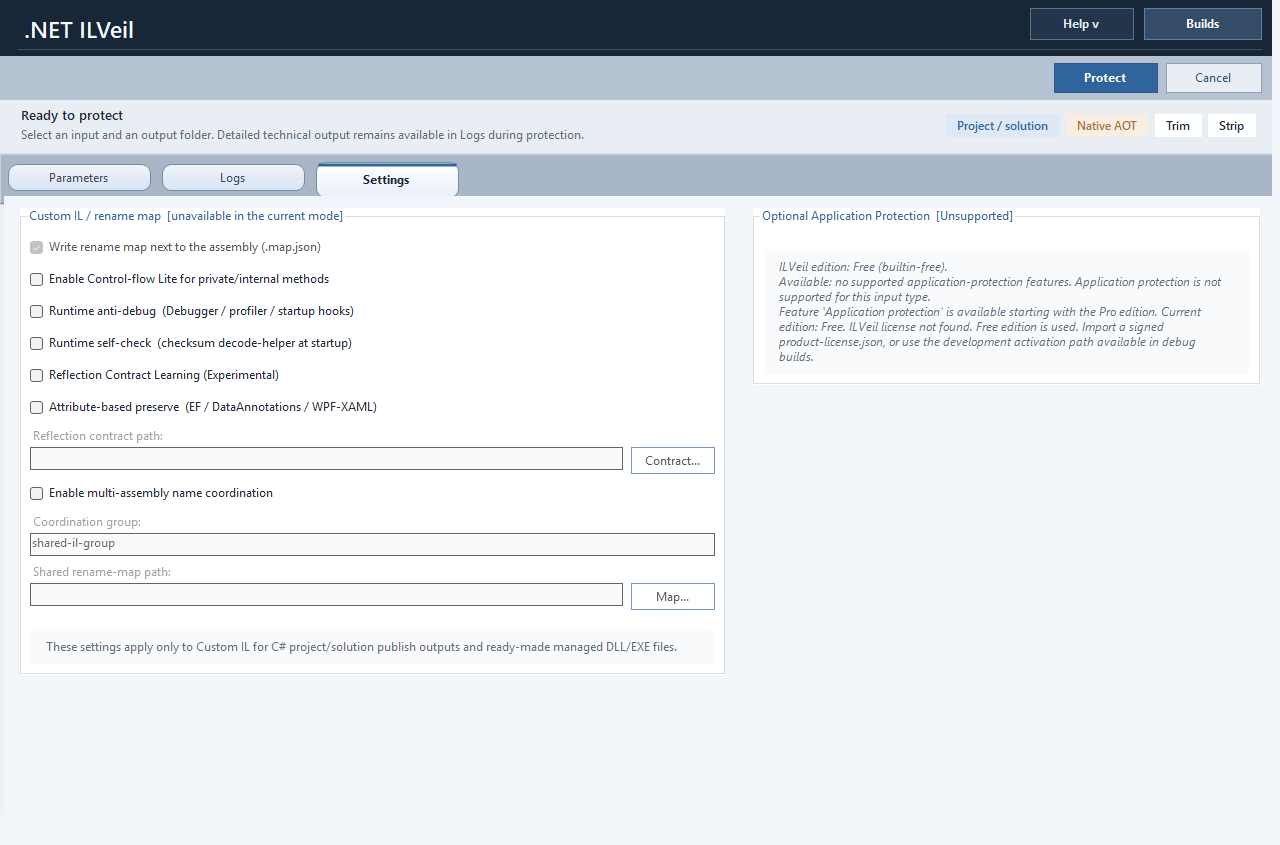
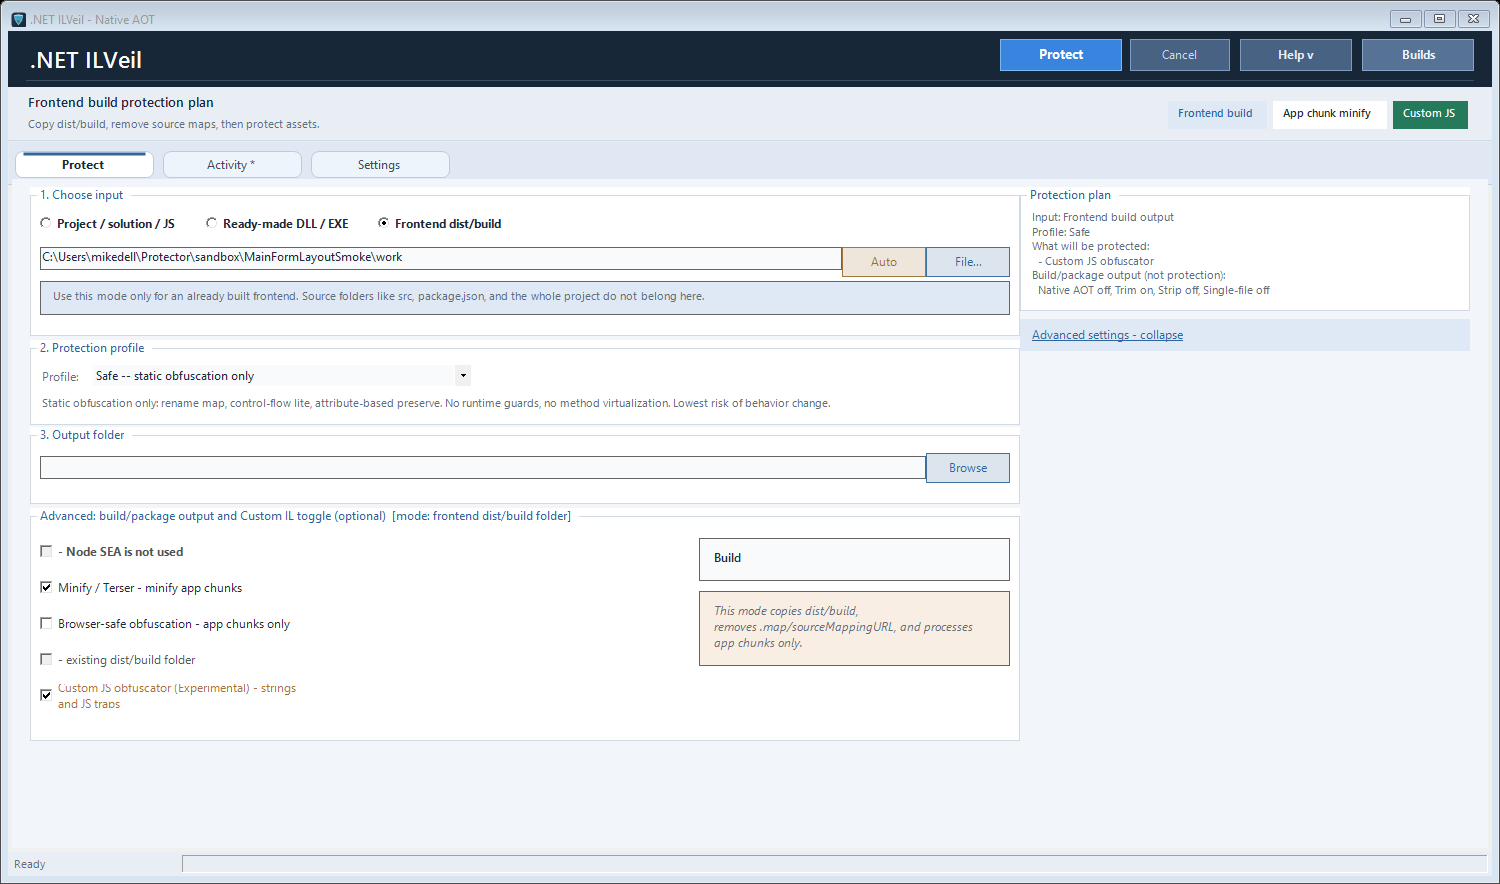
Publish ILVeil v2.1.0

Changed region(s): [[0.0, 0.0, 1.0, 1.0], [0.625, 0.5231, 0.6562, 0.5538]]

diff --git a/index.html b/index.html
@@ -31,10 +31,10 @@
     "applicationCategory": "DeveloperApplication",
     "operatingSystem": "Windows",
     "url": "https://denis-rz.github.io/ILVeil-Releases/",
-    "downloadUrl": "https://denis-rz.github.io/ILVeil-Releases/releases/ILVeil-win-x64-2.0.0.zip",
+    "downloadUrl": "https://denis-rz.github.io/ILVeil-Releases/releases/ILVeil-win-x64-2.1.0.zip",
     "image": "https://denis-rz.github.io/ILVeil-Releases/assets/screenshots/overview-main.png",
     "description": "Windows desktop application for .NET protection, managed obfuscation, Native AOT publishing, activation management, and stack-trace deobfuscation support.",
-    "softwareVersion": "2.0.0",
+    "softwareVersion": "2.1.0",
     "author": {
       "@type": "Person",
       "name": "Denis-RZ"
@@ -65,7 +65,7 @@
         <a href="#editions">Editions</a>
         <a href="#download">Download</a>
       </nav>
-      <a class="button button--ghost button--small" href="https://github.com/Denis-RZ/ILVeil-Releases/releases/tag/v2.0.0">Release v2.0.0</a>
+      <a class="button button--ghost button--small" href="https://github.com/Denis-RZ/ILVeil-Releases/releases/tag/v2.1.0">Release v2.1.0</a>
     </header>
 
     <main>
@@ -78,7 +78,7 @@
             diagnostics in a calmer desktop experience for teams shipping compiled .NET applications on Windows.
           </p>
           <div class="hero__actions">
-            <a class="button button--primary" href="./releases/ILVeil-win-x64-2.0.0.zip">Download Windows x64 build</a>
+            <a class="button button--primary" href="./releases/ILVeil-win-x64-2.1.0.zip">Download v2.1.0</a>
             <a class="button button--ghost" href="./releases/SHA256SUMS.txt">SHA-256 checksums</a>
             <a class="button button--subtle" href="https://github.com/Denis-RZ/ILVeil-Releases">Public release repo</a>
           </div>
@@ -109,7 +109,7 @@
                 <p class="eyebrow">Current release</p>
                 <h2>Public distribution without exposing the private source repository.</h2>
               </div>
-              <span class="release-pill">v2.0.0</span>
+              <span class="release-pill">v2.1.0</span>
             </div>
             <p class="hero-card__copy">
               The public repository contains release assets, checksums, screenshots, and documentation only.
@@ -117,6 +117,7 @@
             </p>
             <ul class="feature-list">
               <li>Windows x64 download package and checksums</li>
+              <li>Application Guard SDK and license issuer</li>
               <li>Product screenshots and release notes</li>
               <li>Licensing contact for Pro and evaluation</li>
             </ul>
@@ -177,8 +178,8 @@
             <p>Preserve stack-trace deobfuscation support and release diagnostics needed for post-ship issue handling.</p>
           </article>
           <article class="card">
-            <h3>Desktop-first experience</h3>
-            <p>Designed for operators who want a GUI-driven process instead of putting every protection step behind a terminal flow.</p>
+            <h3>Application Guard SDK</h3>
+            <p>Optionally bind signed capabilities to derived values, flow checkpoints, and encrypted embedded resources when source integration is available.</p>
           </article>
         </div>
       </section>
@@ -186,24 +187,23 @@
       <section class="section section--showcase">
         <div class="showcase">
           <div class="showcase__copy">
-            <p class="eyebrow">Why this layout exists</p>
-            <h2>A calmer product face for a security-heavy tool.</h2>
+            <p class="eyebrow">Two protection levels</p>
+            <h2>Binary protection first, stronger source binding when needed.</h2>
             <p>
-              The public site is intentionally softer than the product category usually is. Instead of a loud “security dark theme,”
-              the page now leans into a light corporate palette, clearer content rhythm, and calmer decision points.
+              Ready-made DLL/EXE files can use the normal protection workflow without source changes. Application Guard is a separate advanced SDK path for license-derived values and encrypted resources tied to real feature flows.
             </p>
             <div class="bullet-grid">
               <article>
-                <strong>More corporate</strong>
-                <p>Cleaner grid, softer contrast, clearer hierarchy, and less “hacker tooling” mood.</p>
+                <strong>No mandatory SDK</strong>
+                <p>VM, renaming, strings, control flow, and runtime guards remain available for compiled applications.</p>
               </article>
               <article>
-                <strong>More legible</strong>
-                <p>Shorter hero copy, calmer cards, and more whitespace around product claims.</p>
+                <strong>Guided integration</strong>
+                <p>The desktop UI reports Not integrated, Incomplete, or Ready and exports a starter package with examples.</p>
               </article>
               <article>
-                <strong>More product-oriented</strong>
-                <p>The page frames ILVeil as a release workflow, not just as an obfuscation checkbox list.</p>
+                <strong>Honest boundary</strong>
+                <p>Guard strengthens source-integrated features; it does not claim to discover business logic automatically.</p>
               </article>
             </div>
           </div>
@@ -321,9 +321,9 @@
             </p>
           </div>
           <div class="download-banner__links">
-            <a class="download-link" href="./releases/ILVeil-win-x64-2.0.0.zip">ILVeil-win-x64-2.0.0.zip</a>
+            <a class="download-link" href="./releases/ILVeil-win-x64-2.1.0.zip">ILVeil-win-x64-2.1.0.zip</a>
             <a class="download-link" href="./releases/SHA256SUMS.txt">SHA256SUMS.txt</a>
-            <a class="download-link" href="https://github.com/Denis-RZ/ILVeil-Releases/releases/tag/v2.0.0">Release notes</a>
+            <a class="download-link" href="https://github.com/Denis-RZ/ILVeil-Releases/releases/tag/v2.1.0">Release notes</a>
           </div>
         </div>
       </section>
@@ -343,8 +343,8 @@
             <p>No. ILVeil is presented here as a Windows desktop GUI application. Public delivery is through GitHub Releases and GitHub Pages.</p>
           </article>
           <article class="card">
-            <h3>Can GitHub Pages look corporate?</h3>
-            <p>Yes. GitHub Pages can host a polished static product site. The limitation is backend logic, not visual brand quality.</p>
+            <h3>Does Application Guard require source changes?</h3>
+            <p>Yes, for value and flow binding. It is optional: normal binary protection works on ready-made managed DLL/EXE files without Guard markers.</p>
           </article>
         </div>
       </section>
@@ -372,7 +372,7 @@
       <p>
         <a href="https://github.com/Denis-RZ/ILVeil-Releases">Public repository</a>
         <span>·</span>
-        <a href="https://github.com/Denis-RZ/ILVeil-Releases/releases/tag/v2.0.0">Release v2.0.0</a>
+        <a href="https://github.com/Denis-RZ/ILVeil-Releases/releases/tag/v2.1.0">Release v2.1.0</a>
       </p>
     </footer>
   </div>

diff --git a/release-notes.md b/release-notes.md
@@ -1,28 +1,19 @@
-# ILVeil v2.0.0
+# ILVeil v2.1.0
 
 ## Included
 
-- Windows x64 desktop build (requires the [.NET 9 Desktop Runtime](https://dotnet.microsoft.com/download/dotnet/9.0) -- see "Distribution change" below)
-- built-in Help assets
-- activation UI
-- managed protection workflow
-- Native AOT publish workflow
-- self-protected: this build is itself hardened with ILVeil's own managed protection pipeline
+- self-protected Windows x64 desktop build (requires the .NET 9 Desktop Runtime)
+- expanded VM return shapes, instance operations, switches, and auto-selection
+- Application Guard SDK with ECDSA-signed capabilities
+- derived values and checkpoint-bound feature flows
+- encrypted embedded resources, including flow-bound decryption
+- Application License Issuer with DPAPI-protected private keys
+- in-product Guard states, integration guide, starter-package export, and post-protection verification
+- refreshed desktop layout and current screenshots
 
-## What's New Since v1.0.0
+## Compatibility and scope
 
-- Key-method virtualization ([ILVeilVirtualize]) now covers real control flow -- if/else, ternaries, and loops with direct relational conditions (`if (x < y)`, `for (...)`) -- instead of only straight-line int/bool logic.
-- Each virtualized method's bytecode now uses its own independent opcode mapping, so recovering one method's mapping no longer helps decode another.
-- A stack/control-flow verifier now runs before a method is virtualized, so anything with an inconsistent or unsupported stack shape safely falls back to the existing hardening path instead of being guessed at.
-- General protection-pipeline hardening: masked dispatcher state constants, additional string-decode variants, and payload-storage hardening for virtualized methods.
-
-## Distribution Change
-
-Previous releases shipped a single self-contained `.exe` (portable, no separate .NET install required). v2.0.0 ships as a framework-dependent Windows x64 build instead, so it requires the **.NET 9 Desktop Runtime** to be installed. This changed because ILVeil's own self-protection step cannot yet safely process a self-contained single-file bundle -- shipping this release self-protected (matching how ILVeil is meant to be used) took priority over the portable packaging format. Restoring a self-protected, self-contained package is tracked as future work.
-
-## Licensing
-
-This build runs as the Free edition by default (no `product-license.json` bundled). For commercial Pro licensing or evaluation requests, contact [[email redacted]](mailto:[email redacted]).
+Normal binary protection does not require source changes. Application Guard is optional and requires source integration for strong value/flow binding. The integrity marker remains audit-only and is explicitly reported as not runtime-enforced.
 
 ## Integrity
 

diff --git a/README.md b/README.md
@@ -2,13 +2,13 @@
 
 Windows desktop `.NET obfuscator` and release protection workflow for managed assemblies, Native AOT publishing, activation management, and post-release diagnostics.
 
-[Product Website](https://denis-rz.github.io/ILVeil-Releases/) | [Latest Release](https://github.com/Denis-RZ/ILVeil-Releases/releases/tag/v2.0.0) | [Download Windows x64 Build](./releases/ILVeil-win-x64-2.0.0.zip)
+[Product Website](https://denis-rz.github.io/ILVeil-Releases/) | [Latest Release](https://github.com/Denis-RZ/ILVeil-Releases/releases/tag/v2.1.0) | [Download Windows x64 Build](./releases/ILVeil-win-x64-2.1.0.zip)
 
 ## Start Here
 
 - Open the product site: [ILVeil Website](https://denis-rz.github.io/ILVeil-Releases/)
-- Open the release page: [ILVeil v2.0.0](https://github.com/Denis-RZ/ILVeil-Releases/releases/tag/v2.0.0)
-- Download the Windows x64 package: [ILVeil-win-x64-2.0.0.zip](./releases/ILVeil-win-x64-2.0.0.zip) (requires the [.NET 9 Desktop Runtime](https://dotnet.microsoft.com/download/dotnet/9.0))
+- Open the release page: [ILVeil v2.1.0](https://github.com/Denis-RZ/ILVeil-Releases/releases/tag/v2.1.0)
+- Download the Windows x64 package: [ILVeil-win-x64-2.1.0.zip](./releases/ILVeil-win-x64-2.1.0.zip) (requires the [.NET 9 Desktop Runtime](https://dotnet.microsoft.com/download/dotnet/9.0))
 - Verify integrity: [SHA256SUMS.txt](./releases/SHA256SUMS.txt)
 
 ## What This Public Repository Contains
@@ -29,6 +29,9 @@ It does **not** contain the private source code repository.
 - custom IL layer with compatibility-aware preservation logic
 - rename-map output and support-oriented release diagnostics
 - activation and edition management inside the desktop UI
+- expanded VM return-shape, instance-operation, switch, and auto-selection coverage
+- optional Application Guard SDK for signed capabilities, derived values, flow checkpoints, and encrypted resources
+- bundled Application License Issuer and SDK integration examples
 
 ## Target Use Cases
 